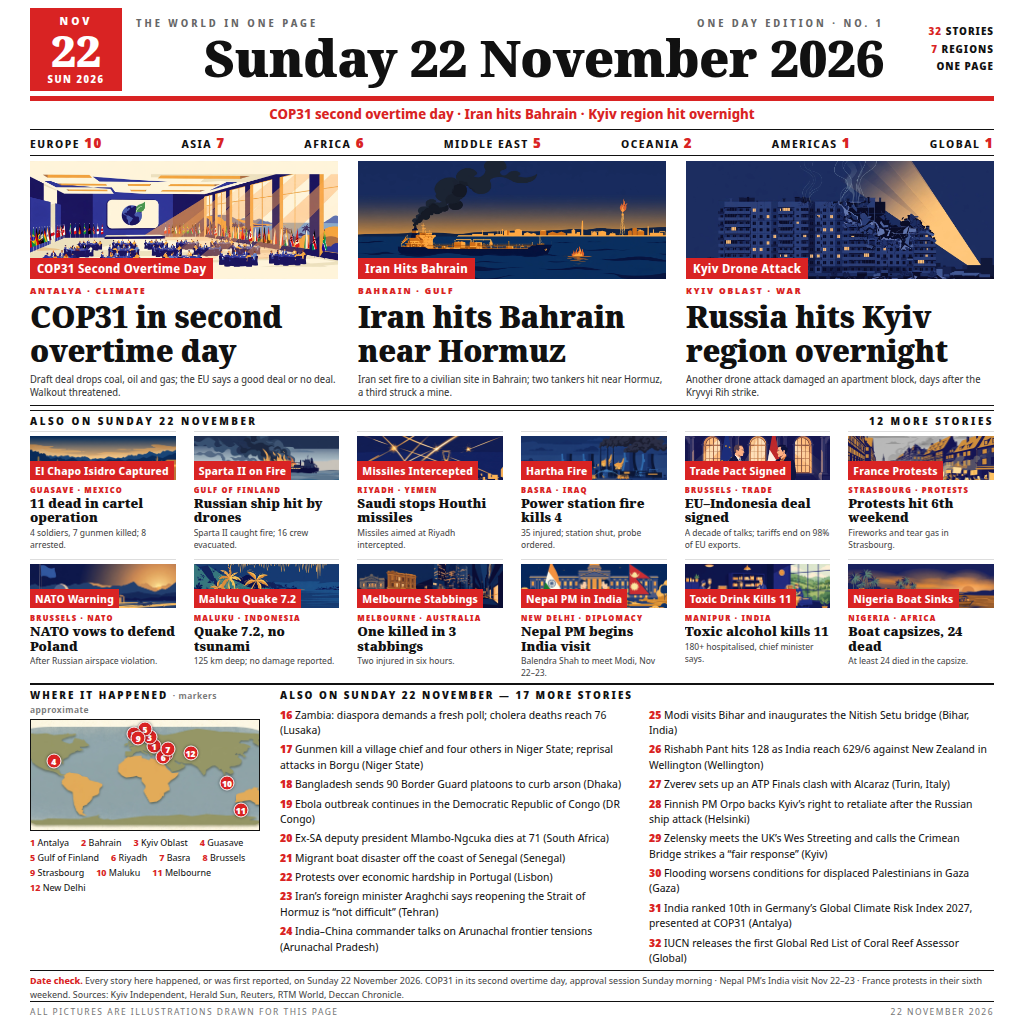
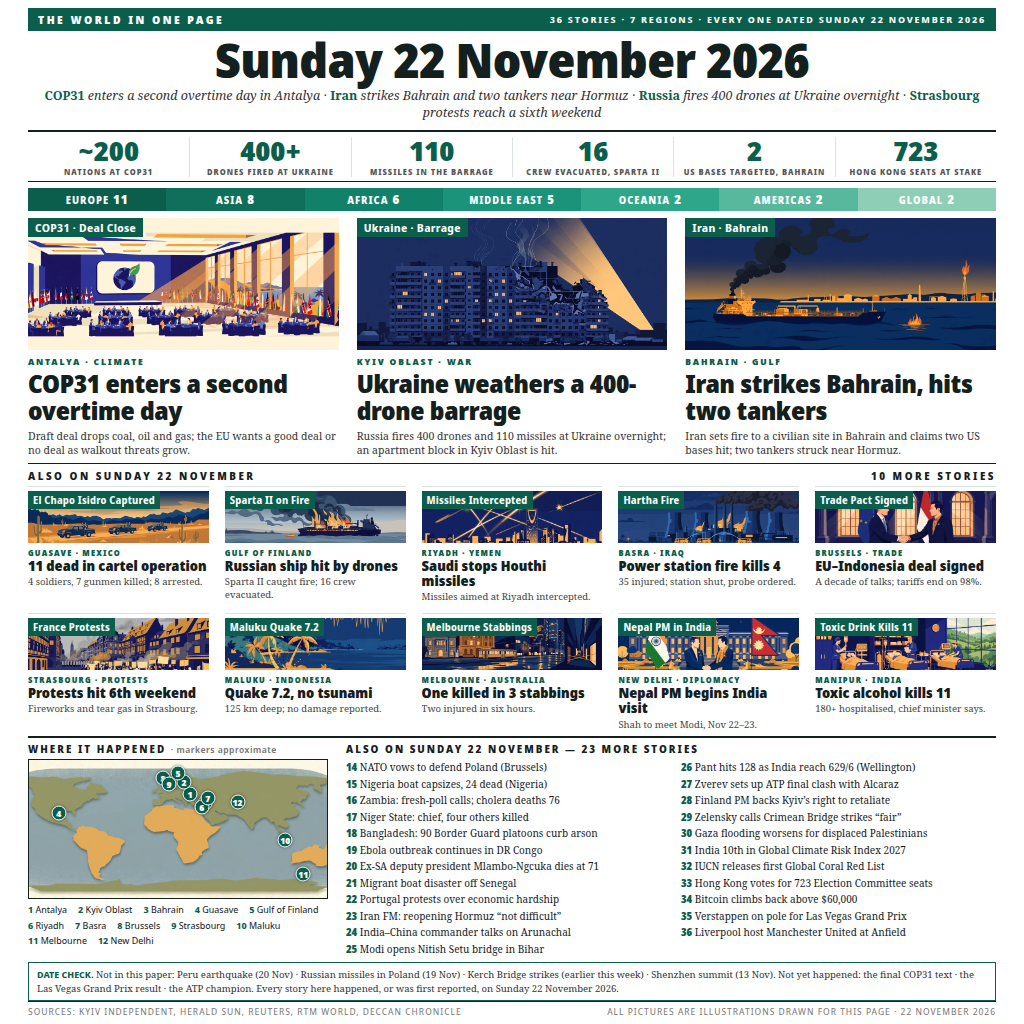
v3 — winners' format, emerald accent + sans headlines (Tem's colour/font direction)

diff --git a/main.ts b/main.ts
@@ -1,16 +1,18 @@
-// The World in One Day — creative world briefing, 22 Nov 2026 (32 stories, 7 regions)
-// The World in One Day — Sunday 22 November 2026 in one image.
+// The World in One Page — Sunday 22 November 2026 in one image (v3).
 // Node 22, standard library only. The entry image lives in this repository at
 // assets/entry.png. This program copies those exact bytes to the output
-// directory so both grading runs write identical files. The image is a classic
-// newspaper front page in black on white with a single red accent (#d92323):
-// a red date badge and giant date title, a red headline ticker, a region row,
-// three highlight feature cards with large illustrations, twelve grid stories
-// in six columns, a small world map with twelve pins beside seventeen more
-// stories, a date check and attribution — thirty-two stories in all, seven
-// regions. All pictures are flat-design illustrations drawn for this page and
-// every word is set in crisp vector type. No network, no randomness, no clock:
-// the output is a pure byte copy of the image the repository holds.
+// directory so both grading runs write identical files. The image follows the
+// winners' front-page format exactly — thin top strip, giant date masthead with
+// an italic sub-deck, a six-stat strip, a colour-coded region bar, three hero
+// stories with large illustrations, ten small stories in two rows of five, a
+// small world map with twelve pins beside twenty-three more stories, a bordered
+// date-check box and a sources footer — thirty-six stories in all, seven
+// regions. Its identity is its own: a deep emerald accent (#0b5e4b) on clean
+// white, modern grotesque sans-serif headlines with a readable serif for the
+// summaries and the brief list. All pictures are flat-design illustrations
+// drawn for this page and every word is set in crisp vector type. No network,
+// no randomness, no clock: the output is a pure byte copy of the image the
+// repository holds.
 //
 // Run locally with:
 //   mkdir -p out && MAKEFUN_OUTPUT_DIR=out node main.ts
